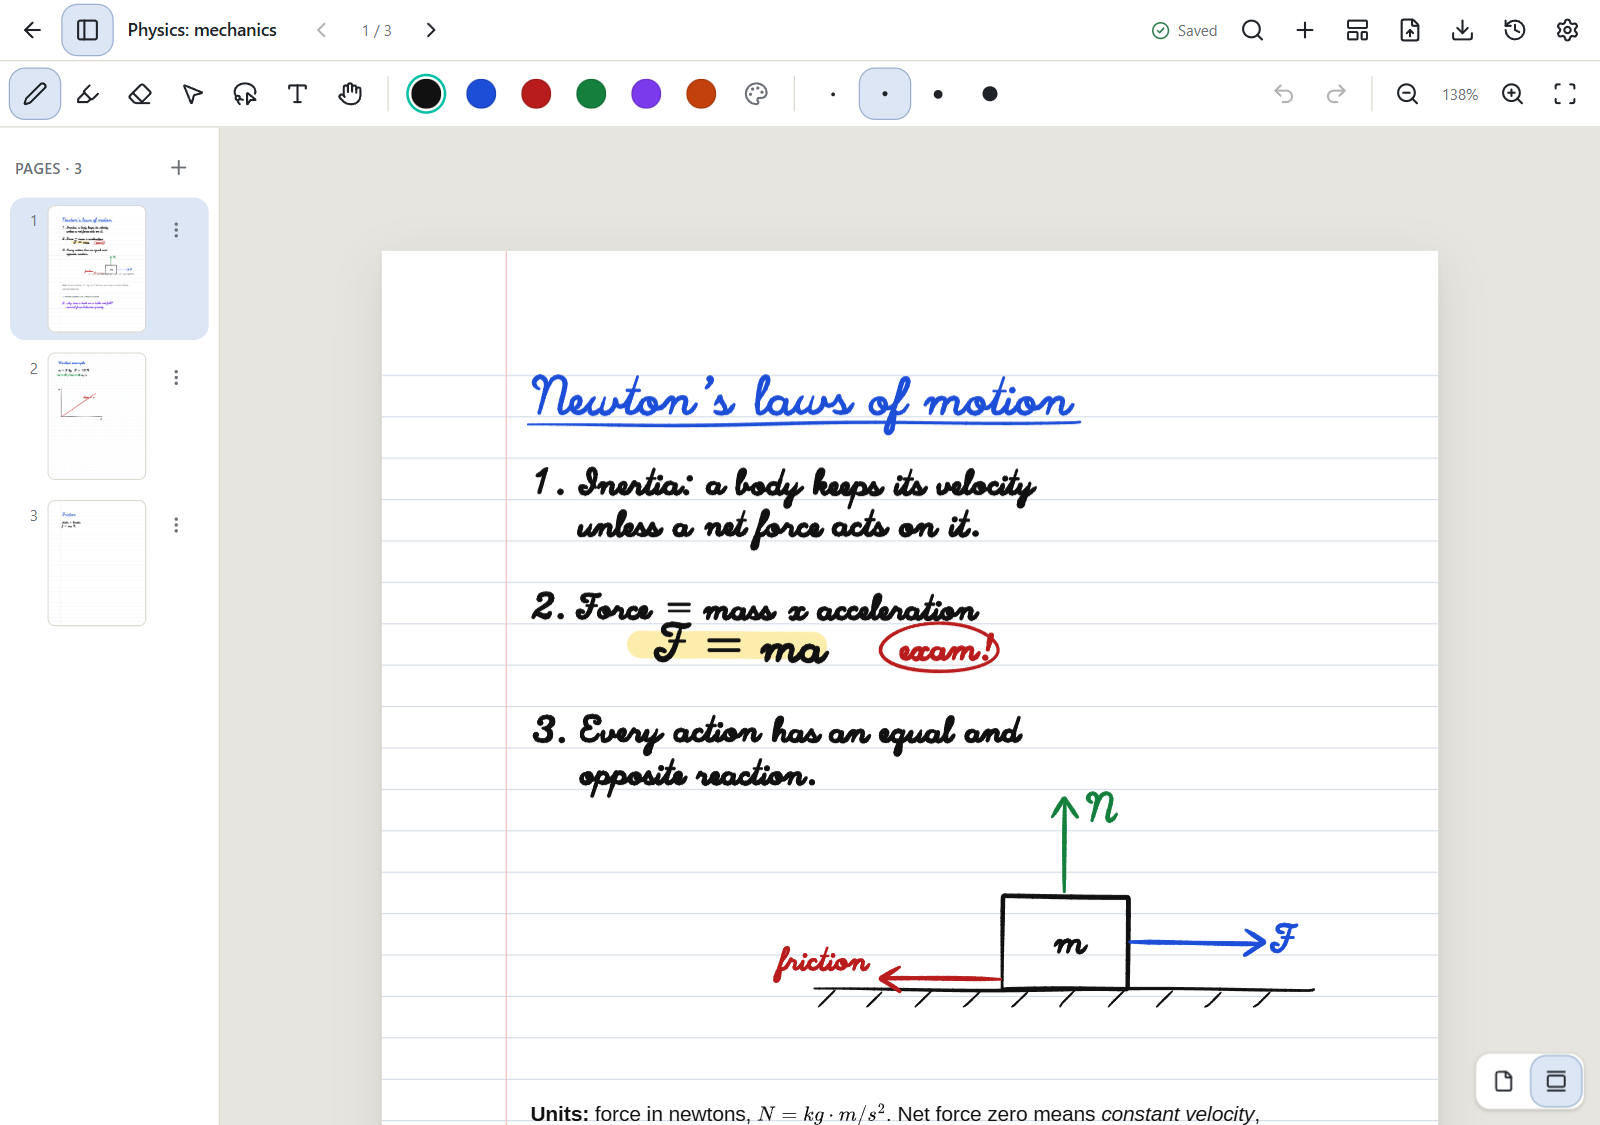
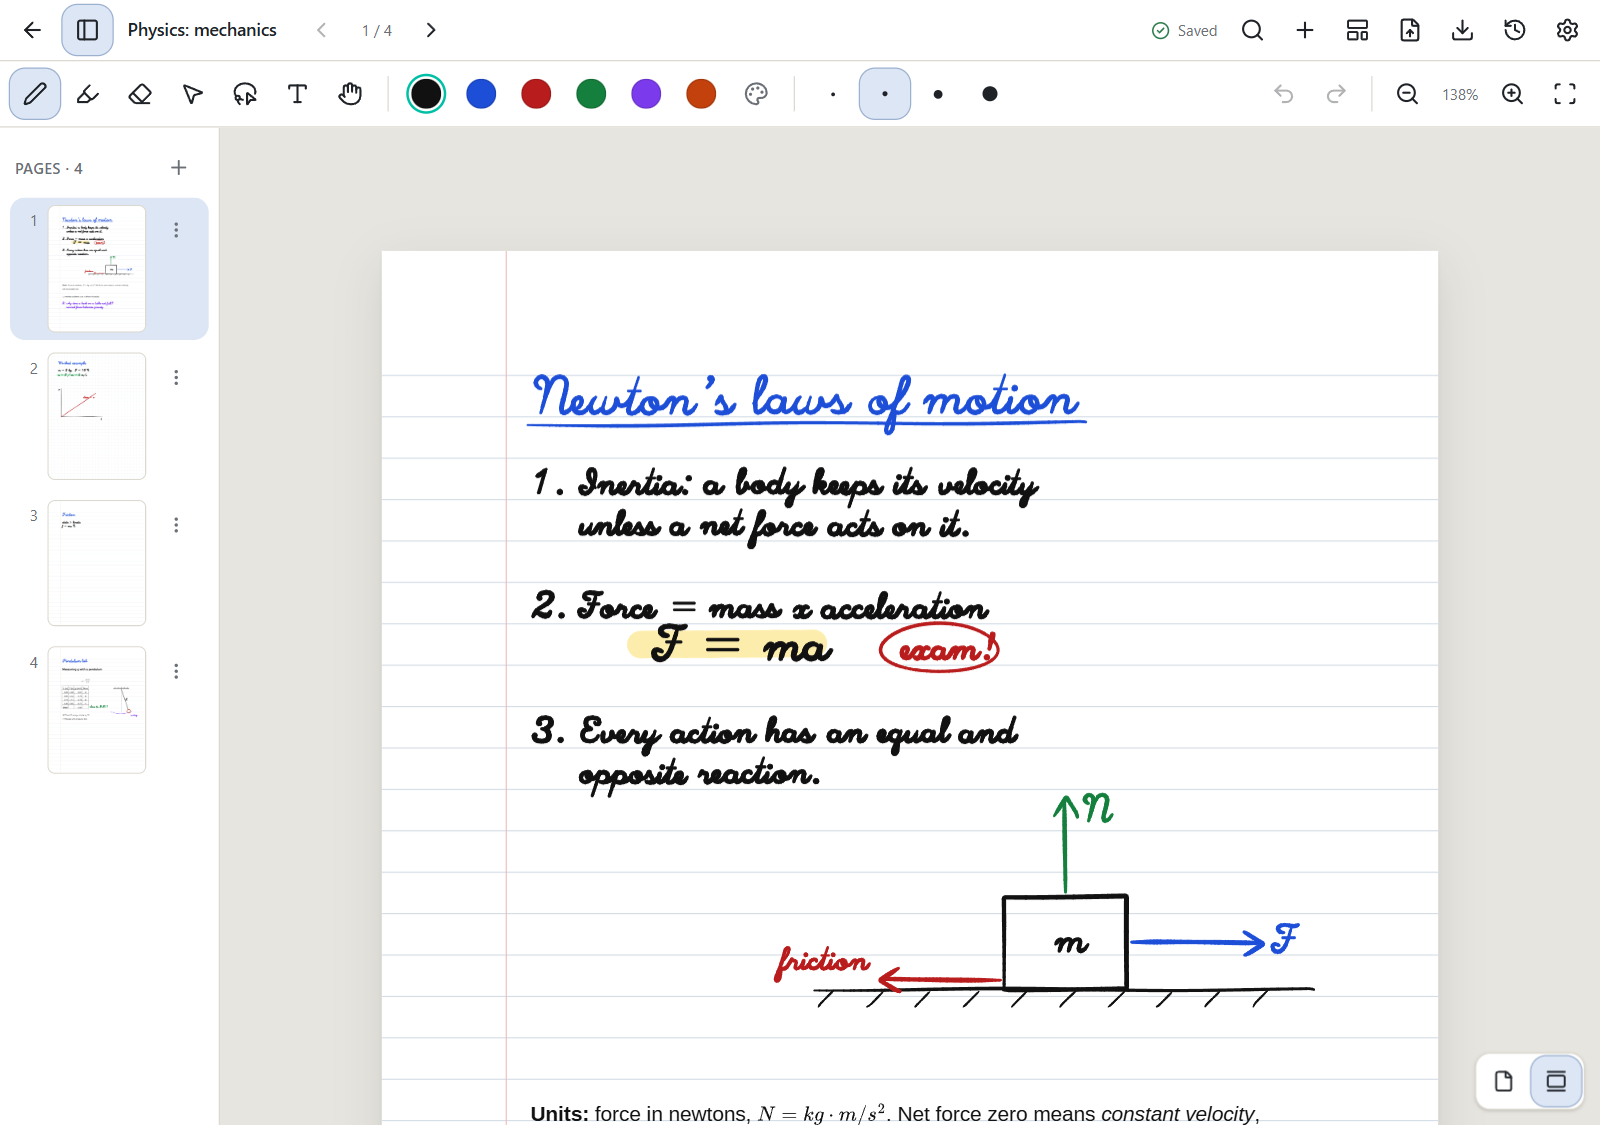
Capture more screenshots for the README and the user manual
The demo library gains a lab write-up with a formula and a spreadsheet
table, and an infinite canvas notebook. The session adds shots of
search, the spreadsheet page, the canvas, both tours, the New notebook
dialog, Settings and version history.

`shot NAME X Y W H` keeps only part of the window, in both capture
scripts and the Linux E2E driver, and both scripts take the list of
shots from session.txt.

diff --git a/crates/penroam-storage/examples/demo_library.rs b/crates/penroam-storage/examples/demo_library.rs
@@ -1,6 +1,7 @@
 //! Builds a demo library for the README screenshots: handwriting (drawn
 //! from the Hershey script stroke font with pressure and jitter), typed text,
-//! highlights, sketches and an annotated PDF.
+//! highlights, sketches, an annotated PDF, a lab write-up with a formula and a
+//! spreadsheet table, and an infinite canvas.
 //!
 //! ```sh
 //! python3 tools/screenshots/make_pdf.py /tmp/reading.pdf
@@ -482,6 +483,142 @@ fn physics(lib: &mut Library, pen: &mut Pen) {
     );
     e.extend(pen.write("f = mu N", 86.0, ruled(4), 6.0, INK, 2.0).0);
     add(lib, nb, p3.id, e);
+
+    // page 4: a lab write-up with a heading, a display formula and a table
+    // that works as a spreadsheet, next to a hand-drawn pendulum
+    let (_, p4) = lib.create_page(nb, None, None, None).expect("page");
+    let mut e = Vec::new();
+    e.extend(pen.write("Pendulum lab", 86.0, ruled(1), 8.5, BLUE, 2.2).0);
+    let mut lab = pen.text(
+        86.0,
+        72.0 + 24.0 * 2.0,
+        300.0,
+        312.0,
+        "## Measuring g with a pendulum\n\n\
+         $$g = \\frac{4\\pi^2 L}{T^2}$$\n\n\
+         | L (m) | T (s) | g (m/s²) | Done |\n\
+         |---:|---:|---:|:---:|\n\
+         | 0.25 | 1.00 | =ROUND(39.478*A2/B2^2, 2) | [x] |\n\
+         | 0.50 | 1.42 | =ROUND(39.478*A3/B3^2, 2) | [x] |\n\
+         | 0.75 | 1.74 | =ROUND(39.478*A4/B4^2, 2) | [x] |\n\
+         | 1.00 | 2.01 | =ROUND(39.478*A5/B5^2, 2) | [ ] |\n\
+         | **Mean** | | =ROUND(AVERAGE(C2:C5), 2) | |\n\n\
+         - [x] Time 10 swings, divide by 10\n\
+         - [ ] Repeat with a heavier bob",
+        12.0,
+        INK,
+    );
+    if let Element::Text(t) = &mut lab {
+        t.row_pitch = Some(24.0);
+    }
+    e.push(lab);
+    // the pendulum beside the table: a support, the string at an angle, the
+    // bob and the arc it swings along
+    let (sx, sy) = (460.0, ruled(8));
+    e.push(pen.line(&[(sx - 50.0, sy), (sx + 50.0, sy)], INK, 2.2));
+    for i in 0..5 {
+        let x = sx - 44.0 + i as f64 * 20.0;
+        e.push(pen.line(&[(x, sy), (x + 9.0, sy - 9.0)], INK, 1.0));
+    }
+    let (bx, by) = (sx + 45.0, sy + 133.0);
+    e.push(pen.line(&[(sx, sy), (bx, by)], INK, 1.6));
+    e.push(pen.ellipse(bx + 4.0, by + 11.0, 11.0, 11.0, ORANGE, 2.2));
+    e.push(pen.line(&[(sx, sy), (sx, sy + 150.0)], "#9ca3af", 1.0));
+    let arc: Vec<(f64, f64)> = (0..=24)
+        .map(|i| {
+            let a = -0.45 + 0.9 * i as f64 / 24.0;
+            (sx + 160.0 * a.sin(), sy + 160.0 * a.cos())
+        })
+        .collect();
+    e.push(pen.line(&arc, PURPLE, 1.4));
+    e.extend(pen.write("L", sx + 28.0, sy + 72.0, 6.0, INK, 1.8).0);
+    e.extend(
+        pen.write("swing", sx + 62.0, sy + 172.0, 5.5, PURPLE, 1.8)
+            .0,
+    );
+    e.extend(
+        pen.write("close to 9.81!", 262.0, ruled(13), 6.0, GREEN, 2.0)
+            .0,
+    );
+    add(lib, nb, p4.id, e);
+}
+
+/// An infinite canvas with a mind map that spreads well beyond one sheet.
+fn ideas(lib: &mut Library, pen: &mut Pen) {
+    let defaults = PageDefaults {
+        paper: Paper::Letter,
+        template: Template {
+            kind: TemplateKind::Dotted,
+            spacing: 20.0,
+        },
+    };
+    let (nb, p) = lib
+        .create_notebook("Science fair ideas", defaults, Some("#2f6f73".into()))
+        .expect("notebook");
+    lib.set_infinite_canvas(nb.id, true).expect("canvas");
+    let mut e = Vec::new();
+    let (cx, cy) = (520.0, 420.0);
+    e.push(pen.ellipse(cx, cy, 120.0, 52.0, BLUE, 2.6));
+    e.extend(
+        pen.write("Science fair", cx - 84.0, cy + 8.0, 9.0, BLUE, 2.4)
+            .0,
+    );
+    let branches: [(f64, f64, &str, &str); 5] = [
+        (-380.0, -230.0, "solar oven", ORANGE),
+        (360.0, -250.0, "water filter", BLUE),
+        (440.0, 120.0, "bridge loads", RED),
+        (-60.0, 300.0, "plant growth + light", GREEN),
+        (-460.0, 140.0, "paper planes", PURPLE),
+    ];
+    for (dx, dy, label, color) in branches {
+        let (x, y) = (cx + dx, cy + dy);
+        let w = label.len() as f64 * 8.0 + 40.0;
+        // connect the edge of the centre bubble to the branch
+        let len = (dx * dx + dy * dy).sqrt();
+        e.push(pen.line(
+            &[
+                (cx + dx / len * 120.0, cy + dy / len * 52.0),
+                (x - dx / len * w * 0.55, y - dy / len * 26.0),
+            ],
+            INK,
+            1.6,
+        ));
+        e.push(pen.ellipse(x, y, w * 0.58, 30.0, color, 2.2));
+        e.extend(pen.write(label, x - w * 0.4, y + 5.0, 6.5, color, 2.2).0);
+    }
+    e.push(pen.text(
+        cx + 270.0,
+        cy - 180.0,
+        230.0,
+        110.0,
+        "**Water filter**\n- sand, gravel, charcoal\n- test cloudiness before and after\n- *cheap to build*",
+        12.0,
+        INK,
+    ));
+    e.push(pen.text(
+        cx - 560.0,
+        cy - 150.0,
+        220.0,
+        90.0,
+        "**Solar oven**\nPizza box, foil and cling film. Measure the inside temperature every 5 min.",
+        12.0,
+        INK,
+    ));
+    e.extend(
+        pen.write("favourite!", cx + 330.0, cy - 300.0, 6.0, RED, 2.0)
+            .0,
+    );
+    e.push(pen.highlight(cx + 326.0, cx + 400.0, cy - 304.0, YELLOW, 14.0));
+    e.extend(
+        pen.write("due Dec 12", cx - 100.0, cy + 420.0, 7.0, ORANGE, 2.2)
+            .0,
+    );
+    e.push(pen.line(
+        &[(cx - 104.0, cy + 428.0), (cx + 30.0, cy + 426.0)],
+        ORANGE,
+        1.6,
+    ));
+    add(lib, nb.id, p.id, e);
 }
 
 fn trip(lib: &mut Library, pen: &mut Pen) {
@@ -808,7 +945,9 @@ fn main() {
         z: 0,
         ids: 0xdeed_0000_0000_0000_0000_0000_0000_0000,
     };
-    // created oldest first: the library lists the most recent first
+    // created oldest first: the library lists the most recent first, so the
+    // canvas notebook sits after the five that the screenshot session opens
+    ideas(&mut lib, &mut pen);
     meeting(&mut lib, &mut pen);
     sketchbook(&mut lib, &mut pen);
     trip(&mut lib, &mut pen);

diff --git a/tools/linux-e2e/e2e.py b/tools/linux-e2e/e2e.py
@@ -7,7 +7,7 @@ screenshots. Coordinates in commands are relative to the window content.
 
 Script lines: any xdrive command (move/down/up/drag/key/type/sleep) with
 window-relative coordinates, plus:
-    shot NAME        save <outdir>/NAME.png
+    shot NAME [X Y W H]  save <outdir>/NAME.png, optionally only that window-relative area
     quit             close the window (exercises flush-on-close)
     kill             SIGKILL the app (crash simulation)
     start            (re)launch the app on the same library
@@ -49,8 +49,9 @@ class App:
                 out.append(c)
         subprocess.run([XDRIVE], input="\n".join(out) + "\n", text=True, check=True)
 
-    def shot(self, name):
-        subprocess.run(["import", "-window", self.win, os.path.join(self.outdir, name + ".png")], check=True)
+    def shot(self, name, area=None):
+        crop = ["-crop", "{2}x{3}+{0}+{1}".format(*area), "+repage"] if area else []
+        subprocess.run(["import", "-window", self.win, *crop, os.path.join(self.outdir, name + ".png")], check=True)
 
     def quit(self):
         """Polite close (WM_DELETE_WINDOW): the app flushes, then exits."""
@@ -79,7 +80,8 @@ def main():
                 app.drive(batch)
                 batch = []
             if word == "shot":
-                app.shot(line.split()[1])
+                p = line.split()
+                app.shot(p[1], [int(v) for v in p[2:6]] if len(p) >= 6 else None)
             elif word == "kill":
                 app.kill()
             elif word == "quit":
